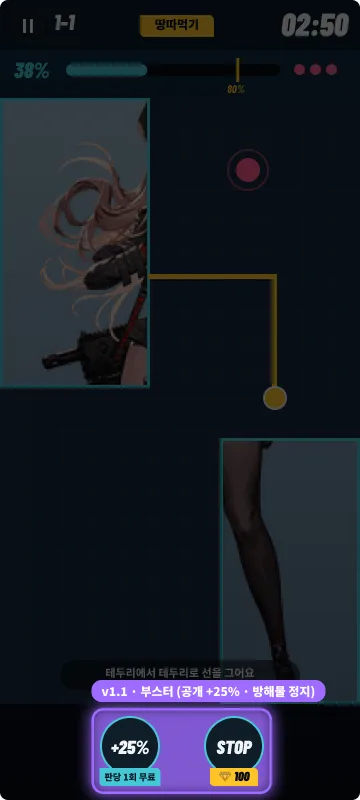
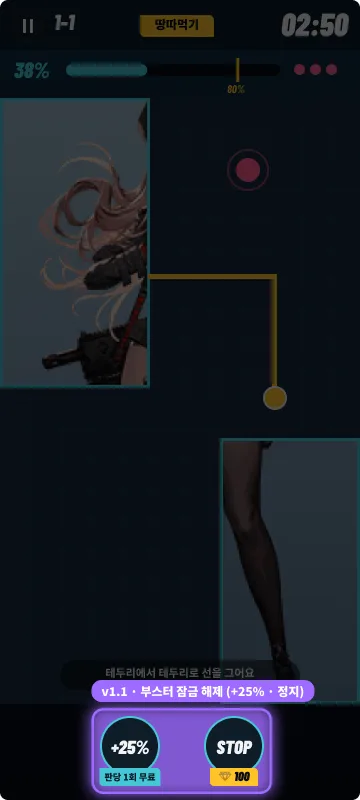
Proposal: booster slots shown locked at launch, unlocked in v1.1
Claude-Session: https://claude.ai/code/session_01QC4LnGUoEV4hPAaGSGh6GF

Changed region(s): [[0.4889, 0.8438, 0.9167, 0.9062]]

diff --git a/territory-romance-f2p-proposal.html b/territory-romance-f2p-proposal.html
@@ -248,7 +248,7 @@ footer{border-top:1px solid var(--line);padding-top:18px;color:var(--muted);font
  <div class="legend">
   <div><svg class="ic" aria-hidden="true"><use href="#i-gem"/></svg><div><b>젬 (ジェム)</b><span>게임 안 유일한 재화 · 유상/무상 내부 분리</span></div></div>
   <div><svg class="ic" aria-hidden="true"><use href="#i-heart"/></svg><div><b>친밀도 (好感度)</b><span>캐릭터별 관계 수치 · 판매하지 않음</span></div></div>
-  <div class="none"><div><b>에너지 · 아이템 없음</b><span>퍼즐 입장 무료 · 런칭엔 부스터도 없음 (v1.1)</span></div></div>
+  <div class="none"><div><b>에너지 · 아이템 없음</b><span>퍼즐 입장 무료 · 부스터 슬롯은 잠금 상태로 노출 (v1.1 해제)</span></div></div>
  </div>
  <div class="money">
   <div class="mcard"><img src="japan-project/proposal-screens/l2-locked.webp" alt="" loading="lazy"><div><h3>캐릭터 바로 열기</h3><div class="price"><svg class="ic" aria-hidden="true"><use href="#i-gem"/></svg>1,000</div><p>접근만 앞당김. 사진·친밀도는 0부터.</p></div></div>
@@ -303,11 +303,11 @@ footer{border-top:1px solid var(--line);padding-top:18px;color:var(--muted);font
  </div>
  <div class="spec">
   <div><b>콘텐츠</b><p>캐릭터 4명 (첫 1명 무료)<br>캐릭터당 스탠딩 1 · 사진 4 · 엔딩 1구도 (R/SR/UR 차분)<br>퍼즐 10판 · 스토리 대화 8회 (선택지 고정 시나리오, LLM 없음)</p></div>
-  <div><b>시스템</b><p>땅따먹기 퍼즐 (입장 무료 · 부스터 없음) · 이어하기 · 2연속 실패 도움 모드<br><svg class="ic" aria-hidden="true"><use href="#i-heart"/></svg>(친밀도) 게이트 · 취향 태그 · 나쁜 답 기록 · 되돌리기 하루 1회 무료<br>엔딩 뽑기: 첫 1회 무료 · 확률 + 스텝업</p></div>
+  <div><b>시스템</b><p>땅따먹기 퍼즐 (입장 무료 · 부스터 슬롯 잠금 표시) · 이어하기 · 2연속 실패 도움 모드<br><svg class="ic" aria-hidden="true"><use href="#i-heart"/></svg>(친밀도) 게이트 · 취향 태그 · 나쁜 답 기록 · 되돌리기 하루 1회 무료<br>엔딩 뽑기: 첫 1회 무료 · 확률 + 스텝업</p></div>
   <div><b>경제</b><p>재화 <svg class="ic" aria-hidden="true"><use href="#i-gem"/></svg>(젬) 하나 (내부 유상/무상 분리)<br>무료 답장 5/일 → 이후 <svg class="ic" aria-hidden="true"><use href="#i-gem"/></svg>20 · 진행 해금 (사진 3장당 1명)<br>상점 3팩(¥1,000 · 3,000 · 5,000) + 스타터 팩 · 플랫폼 포인트 결제</p></div>
   <div><b>연출 · 운영</b><p>UR = 정지 일러 + 자동으로 흐르는 무지개빛 (센서 없음)<br>플랫폼 로그인 · 결제 SDK · 서버 세이브<br>확률 표기 · 특상법 · 자금결제법 표기 · 컴프가챠 없음</p></div>
  </div>
- <div class="cut"><i>뺀 것</i>전체 보기·필터 · 취향 노트 화면 · 관계 등급 보너스 · 마음 콤보 · 루트 패스 · 일일 미션 · UR 애니 · 기울이기 홀로 · 퍼즐 부스터 · 잠금 캐릭터 전용 애니 → 전부 업데이트로 이관</div>
+ <div class="cut"><i>뺀 것</i>전체 보기·필터 · 취향 노트 화면 · 관계 등급 보너스 · 마음 콤보 · 루트 패스 · 일일 미션 · UR 애니 · 기울이기 홀로 · 퍼즐 부스터 기능(슬롯은 잠금 표시) · 잠금 캐릭터 전용 애니 → 전부 업데이트로 이관</div>
 </section>
 
 <section id="update">
@@ -317,10 +317,10 @@ footer{border-top:1px solid var(--line);padding-top:18px;color:var(--muted);font
 
  <div class="vergroup">
   <h3><span class="vt" style="font-size:13px">v1.1</span>붙잡기 · 묶어 팔기</h3>
-  <div class="when">런칭 +1개월 [E] · 캐릭터 +2 · 신규 화면: 일일 미션 · 루트 패스 · 전체 보기/필터 · 퍼즐 부스터 2종</div>
+  <div class="when">런칭 +1개월 [E] · 캐릭터 +2 · 신규 화면: 일일 미션 · 루트 패스 · 전체 보기/필터 · 퍼즐 부스터 잠금 해제</div>
   <div class="trig">앞당기는 조건: D7 리텐션 · 첫 결제 전환율</div>
   <div class="hl">
-   <figure><img src="japan-project/proposal-screens/h02-boost.webp" alt="" loading="lazy"><figcaption><b>02 퍼즐 + 부스터 2종</b><span>공개 +25% (판당 1회 무료) · 방해물 정지 <svg class="ic" aria-hidden="true"><use href="#i-gem"/></svg>100</span></figcaption></figure>
+   <figure><img src="japan-project/proposal-screens/h02-boost.webp" alt="" loading="lazy"><figcaption><b>02 퍼즐 · 부스터 잠금 해제</b><span>공개 +25% (판당 1회 무료) · 방해물 정지 <svg class="ic" aria-hidden="true"><use href="#i-gem"/></svg>100</span></figcaption></figure>
    <figure><img src="japan-project/proposal-screens/h01-all.webp" alt="" loading="lazy"><figcaption><b>01 로비 + 전체 보기 버튼</b><span>캐릭터 6명 넘으면 목록 · 필터 오픈</span></figcaption></figure>
    <figure><img src="japan-project/proposal-screens/h06a-pass.webp" alt="" loading="lazy"><figcaption><b>06 관계 + 루트 패스 링크</b><span>¥980 · 무료 답장 매일 +3 · 이어하기 3 · 다시 뽑기 3</span></figcaption></figure>
    <figure><img src="japan-project/proposal-screens/d1-daily.webp" alt="" loading="lazy"><figcaption><b>신규 · 일일 미션</b><span>하루 <svg class="ic" aria-hidden="true"><use href="#i-gem"/></svg>40 · 주간 <svg class="ic" aria-hidden="true"><use href="#i-gem"/></svg>100 (무상 젬)</span></figcaption></figure>
